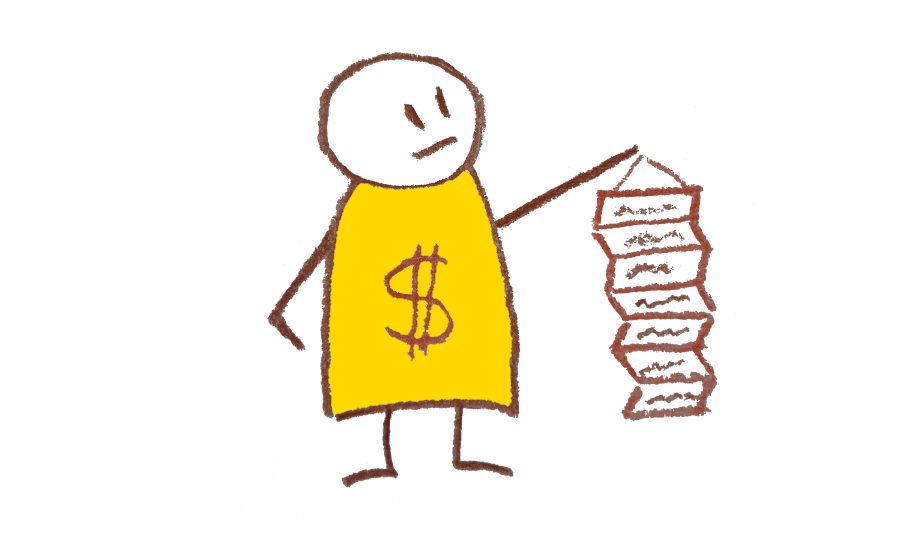
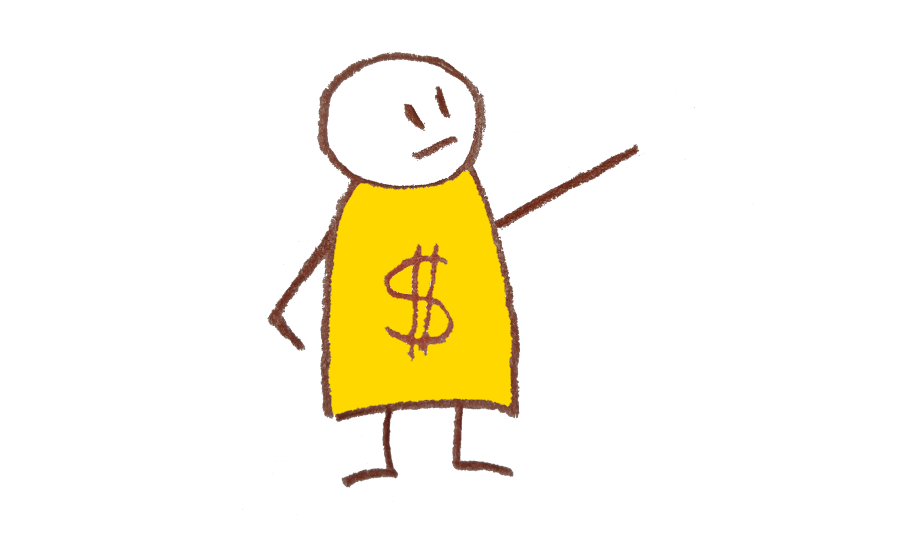
Scrum images and transition enhanced

Changed region(s): [[0.6533, 0.2782, 0.8089, 0.7727]]

diff --git a/valeursagiles.html b/valeursagiles.html
@@ -1135,16 +1135,26 @@
               7 +- 2 personnes<br/>Auto-organisée, pas de chef.
             </aside>
           </section>
-          <section id="scrumpo" data-background="#330033">
             <h2>
               Champion de la Valeur
             </h2>
             <p>
               <img src="i/scrumpo.png" alt="Le Champion de la Valeur" />
             </p>
-            <p>Certains disent PO.</p>
+            <p>Certains disent PO</p>
             <aside class="notes">
-              Il sait le pourquoi. Il tranche. Il priorise.
+              Il sait le pourquoi. Il a une vision.
+            </aside>
+          </section>
+            <h2>
+              Champion de la Valeur
+            </h2>
+            <p>
+              <img src="i/scrumpobacklog.png" alt="Le Backlog" />
+            </p>
+            <p> et la Backlog de l'équipe</p>
+            <aside class="notes">
+              Il tranche. Il priorise.
             </aside>
           </section>
           <section id="scrumsm" data-background="#330033">
@@ -1154,7 +1164,7 @@
             <p>
               <img src="i/scrumsm.png" alt="Le Facilitateur" />
             </p>
-            <p>Certains disent Scrum Master.</p>
+            <p>Certains disent Scrum Master</p>
             <aside class="notes">
               Il forme l'équipe à Scrum.<br/>Il facilite les intéractions.
             </aside>
@@ -1164,13 +1174,13 @@
               Les Parties Prenantes
             </h2>
             <ul>
-              <li>Les Clients</li>
-              <li>Les Utilisateurs</li>
-              <li>Le Sponsor</li>
-              <li>Le Manager</li>
-              <li>Les Experts</li>
+              <li>Clients</li>
+              <li>Utilisateurs</li>
+              <li>Sponsor</li>
+              <li>Manager</li>
+              <li>Experts</li>
             </ul>
-            <p>Toutes les personnes impactées.</p>
+            <p>Toutes les personnes impactées</p>
             <aside class="notes">
             </aside>
           </section>
